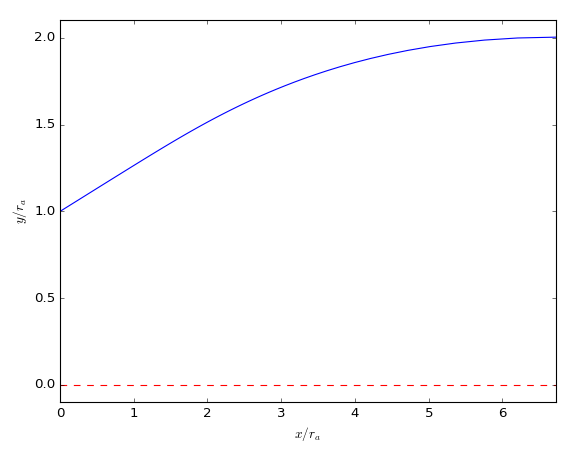
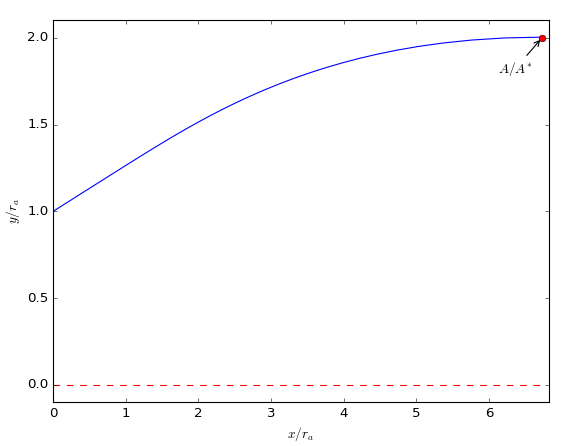
Used correct initial points and added final point output.

diff --git a/examples/min_length.py b/examples/min_length.py
@@ -12,7 +12,8 @@ theta_max = prandtl_meyer(M_e, gamma) / 2
 decimal = theta_max % 1
 integer = theta_max - decimal
 
-initial_thetas = [decimal, integer / 3 + decimal, 2 * integer / 3 + decimal, theta_max]
+# initial_thetas = [decimal, integer / 3 + decimal, 2 * integer / 3 + decimal, theta_max]
+initial_thetas = [0.400, (theta_max - 0.400)/3 + 0.4, 2*(theta_max - 0.400)/3 + 0.4, theta_max]
 print("Initial Thetas: " + str(initial_thetas))
 
 ift = IFT(1, 3, 0.01, gamma)
@@ -42,10 +43,10 @@ p_13 = Point("13", ift, gamma, b=p_11, y=0)
 p_14 = Point("14", ift, gamma, b=p_12, a=p_13, wall=True)
 
 propagation_points = [p_1, p_2, p_3, p_4, p_5, p_6, p_7, p_8, p_9, p_10, p_11, p_12, p_13, p_14]
-for p in propagation_points:
-    p.set_all()
 
 for p in start_points + propagation_points:
     print(p)
 
 points_to_csv("../Report/MoC", start_points + propagation_points)
+print("Final point area ratio = {0:.5f}".format(area_ratio(p_14.M, gamma)))
+print("Final point area ratio = {0:.5f}".format(area_ratio(M_e, gamma)))
